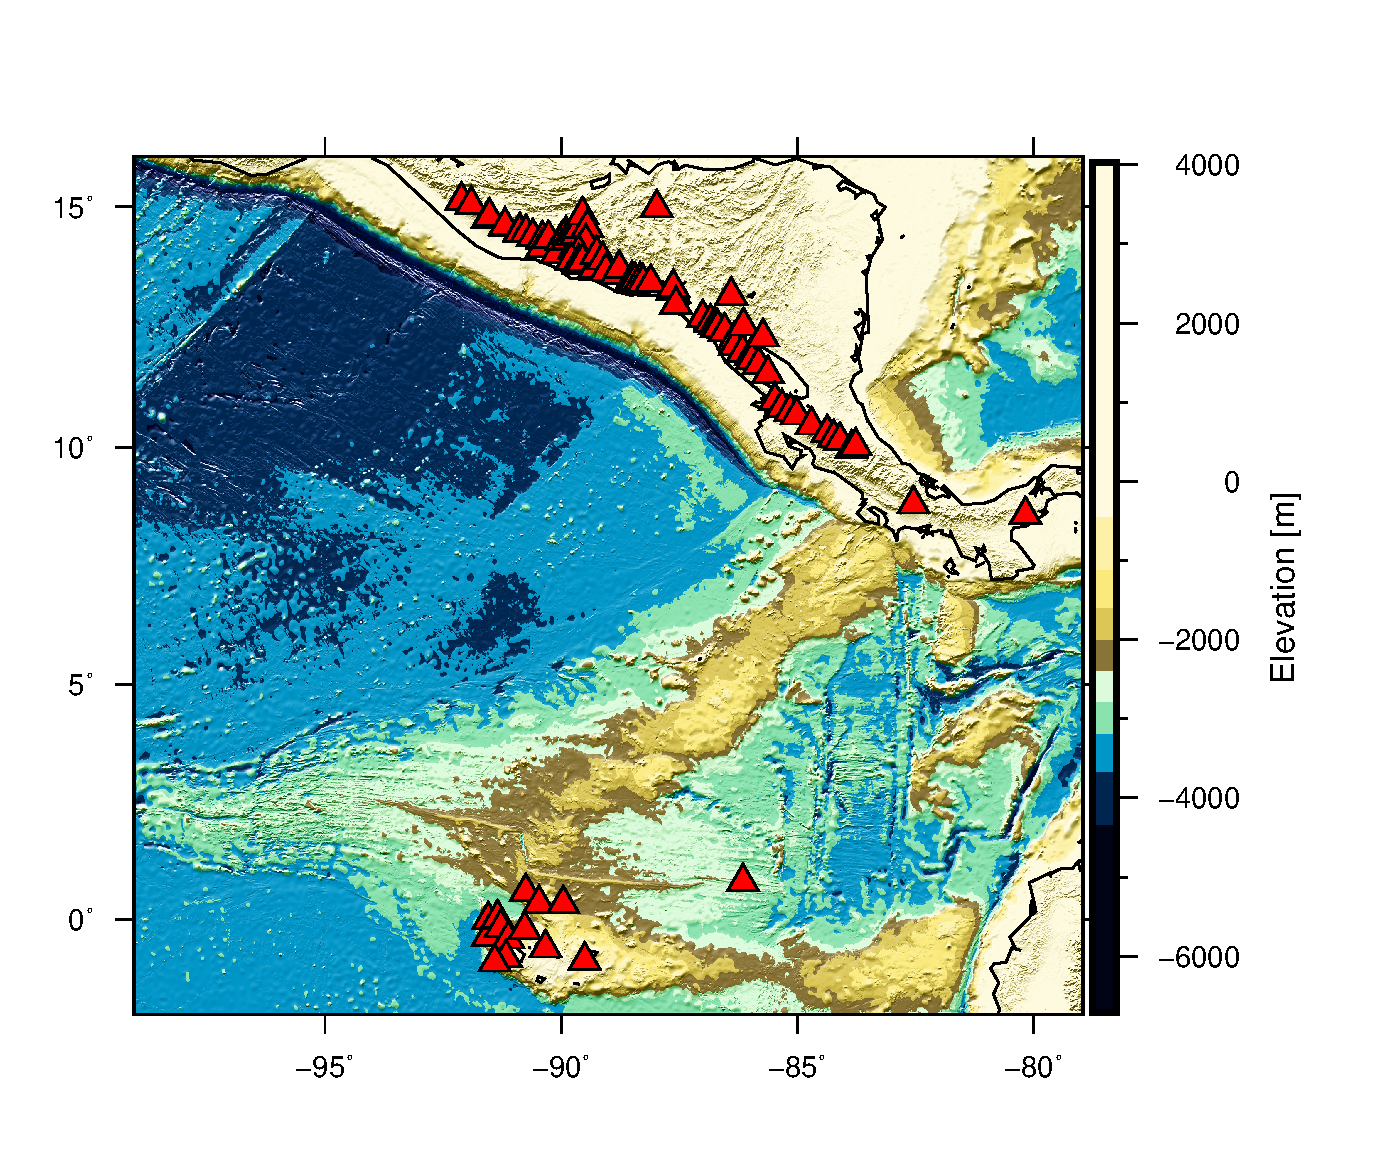
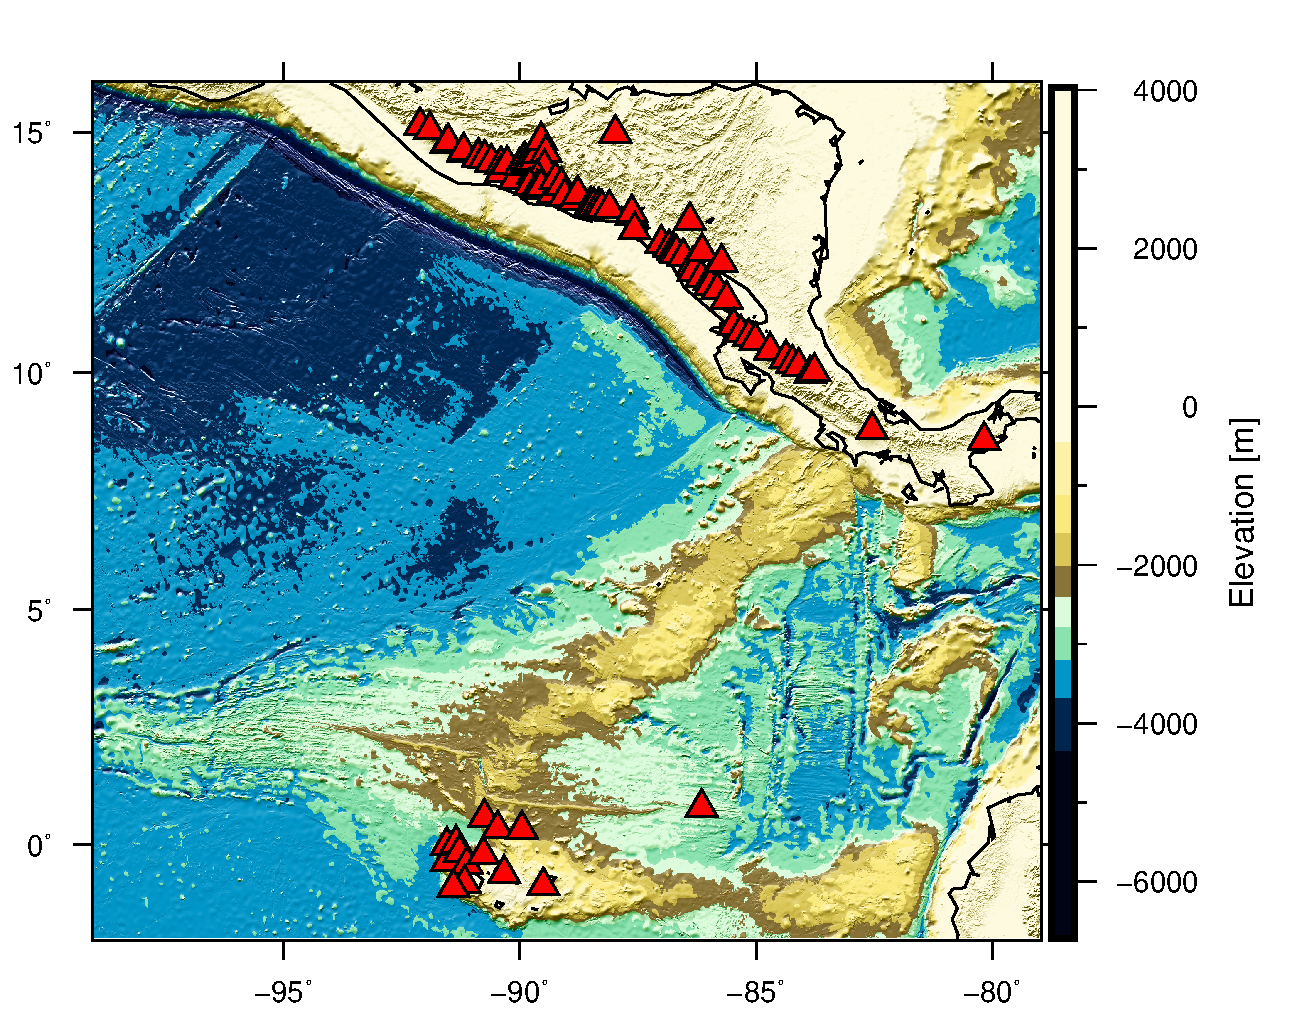
com

diff --git a/cocos-ridge_volcanoes/map_cocos-ridge_volcanoes.py b/cocos-ridge_volcanoes/map_cocos-ridge_volcanoes.py
@@ -11,15 +11,16 @@ ymax = 16
 # zmax = 4028.23535156
 output = 'coco_volcanoes'
 
+margin2map_width = 8/1.5
 MAP_WIDTH = 8
-MARGIN = 3
+MARGIN = 1.6
 SCALE_WIDTH = 0.7
 
 WIDTH = MAP_WIDTH + MARGIN
 height = WIDTH/(xmax-xmin)*(ymax-ymin)
 map_height = MAP_WIDTH/(xmax-xmin)*(ymax-ymin)
 
-WIDTH += SCALE_WIDTH
+WIDTH += 2*SCALE_WIDTH
 
 x_topo_scale = MAP_WIDTH + 0.1
 y_topo_scale = map_height/2
